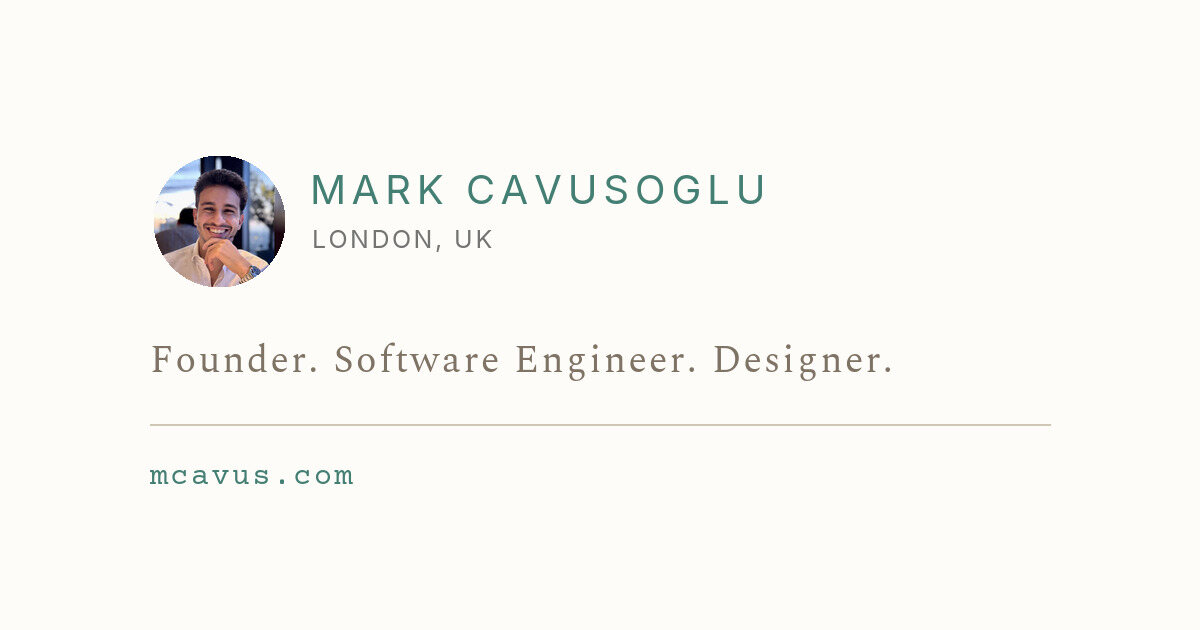
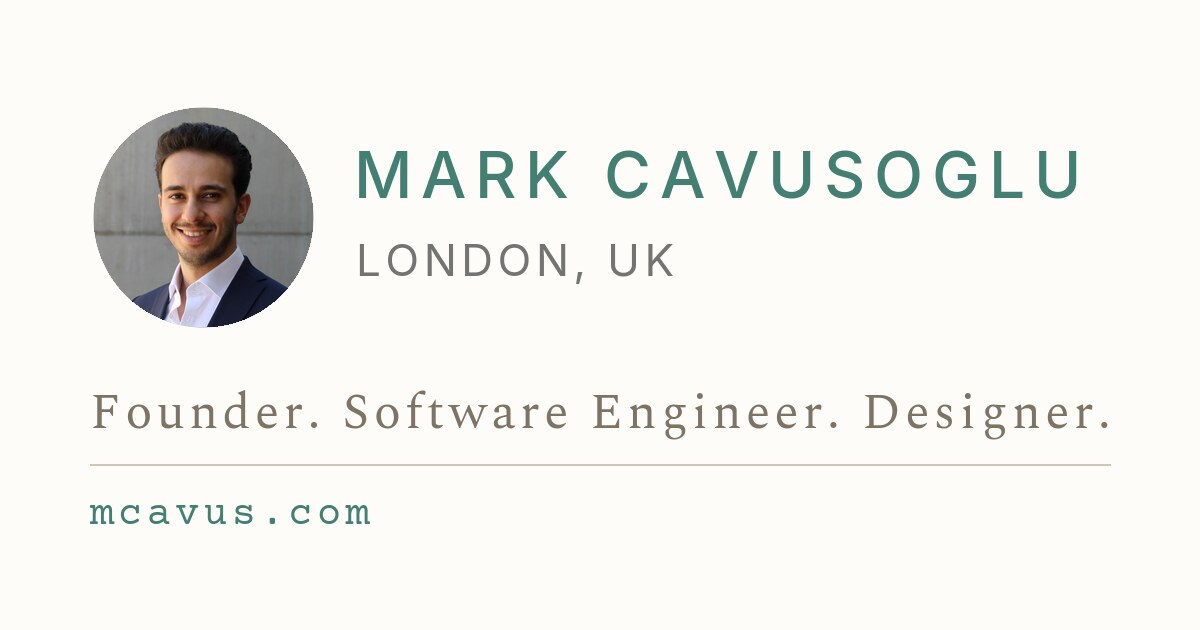
Update profile photo

Changed region(s): [[0.0617, 0.1508, 0.925, 0.6032], [0.0617, 0.5429, 0.925, 0.6937], [0.0617, 0.7238, 0.925, 0.8444]]

diff --git a/assets/css/style.css b/assets/css/style.css
@@ -236,8 +236,8 @@ body {
 .avatar {
   flex: none;
   display: block;
-  width: 3.25rem;
-  height: 3.25rem;
+  width: 4.5rem;
+  height: 4.5rem;
   border-radius: 50%;
   overflow: hidden;
   /* hairline ring keeps the circle from dissolving into the page in both themes */
@@ -264,7 +264,7 @@ body {
 
 .hero-name {
   letter-spacing: 0.14em;
-  font-size: 1.05rem;
+  font-size: 1.3rem;
   font-weight: 500;
   line-height: 1.2;
   color: var(--accent);
@@ -272,8 +272,27 @@ body {
   margin: 0;
 }
 
+/* At phone widths the enlarged name would wrap to "MARK / CAVUSOGLU".
+   Tightening tracking and easing the size keeps it on one line without
+   changing anything above 400px. */
+@media (max-width: 25rem) {
+  .hero-name {
+    font-size: 1.12rem;
+    letter-spacing: 0.07em;
+  }
+
+  .hero-location {
+    font-size: 0.82rem;
+  }
+
+  .avatar {
+    width: 4rem;
+    height: 4rem;
+  }
+}
+
 .hero-location {
-  font-size: 0.78rem;
+  font-size: 0.9rem;
   letter-spacing: 0.1em;
   text-transform: uppercase;
   color: var(--meta);
